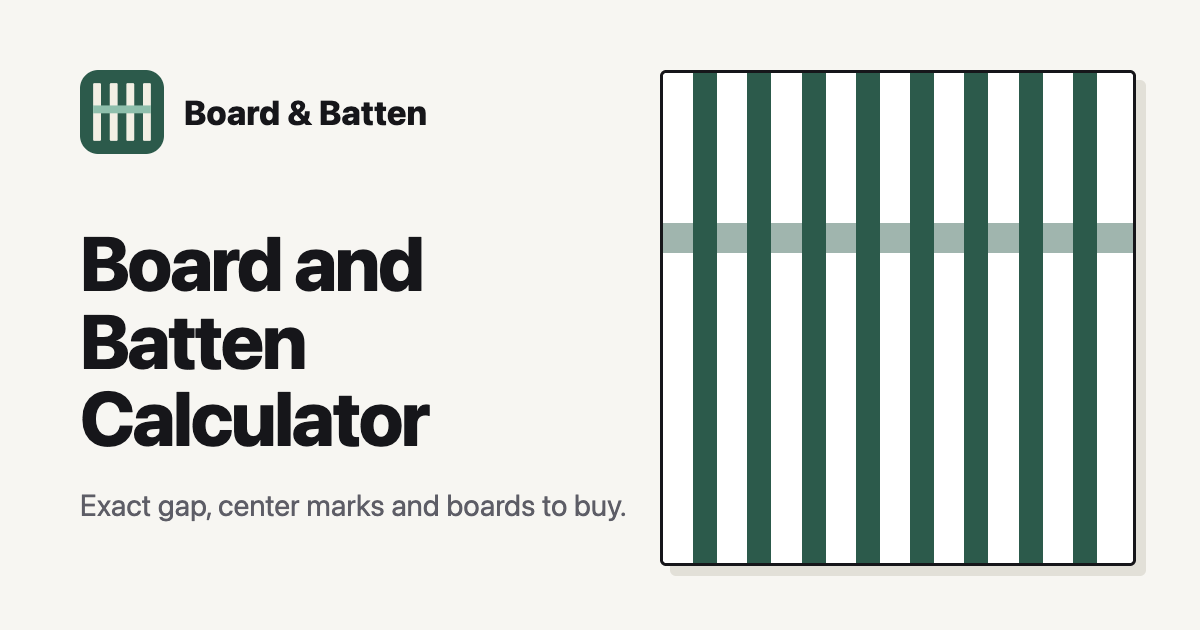
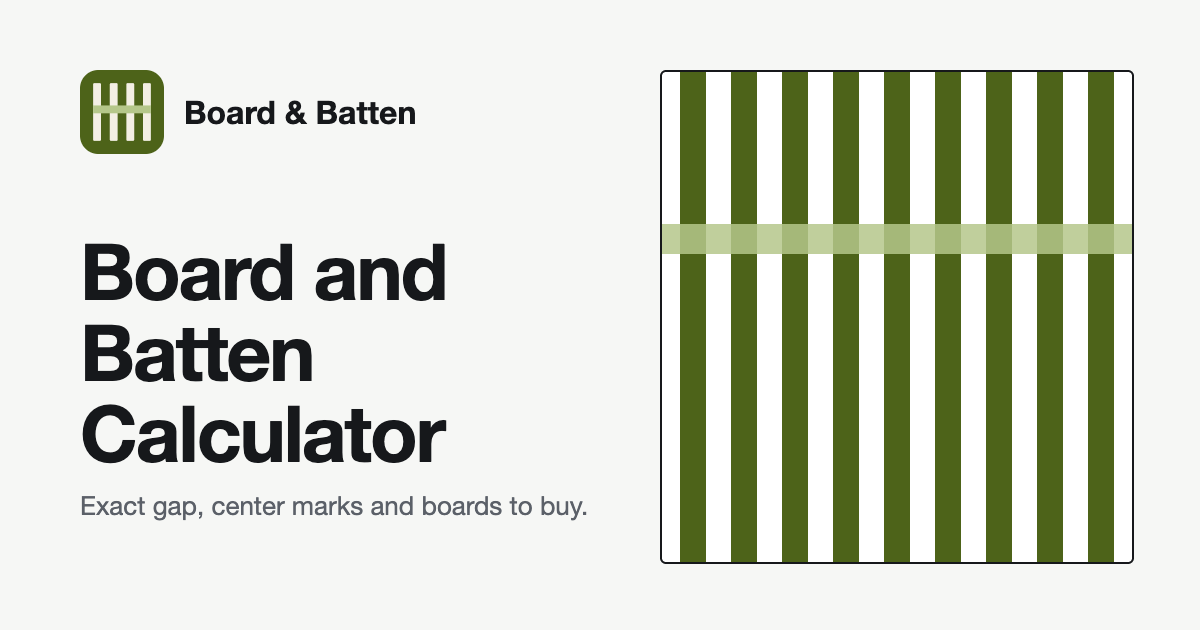
Restyle: refined minimal skin and accent

diff --git a/src/styles/global.css b/src/styles/global.css
@@ -3,6 +3,7 @@
 @custom-variant dark (&:where([data-theme="dark"], [data-theme="dark"] *));
 
 @theme inline {
+  --color-edge: var(--edge);
   --color-brand: var(--brand);
   --color-brand-ink: var(--brand-ink);
   --color-brand-soft: var(--brand-soft);
@@ -17,28 +18,38 @@
 
 :root {
   color-scheme: light;
-  --paper: #f7f6f2;
+  --paper: #f6f7f5;
   --card: #ffffff;
-  --ink: #16161a;
-  --muted: #5d5d66;
-  --line: #e2e0d8;
-  --brand-ink: color-mix(in oklab, var(--brand) 82%, black);
-  --brand-soft: color-mix(in oklab, var(--brand) 10%, var(--paper));
+  --ink: #16181b;
+  --muted: #5b6068;
+  --line: #e3e5e1;
+  --line-strong: #c9ccc6;
+  --edge: #878c93;
+  --card-shadow: 0 1px 2px rgb(16 24 40 / .05), 0 8px 24px -12px rgb(16 24 40 / .10);
+  --brand-ink: color-mix(in oklab, var(--brand) 85%, black);
+  --brand-soft: color-mix(in oklab, var(--brand) 11%, var(--card));
 }
 :root[data-theme="dark"] {
   color-scheme: dark;
-  --paper: #0f1012;
-  --card: #17181b;
-  --ink: #ececea;
-  --muted: #a0a0a8;
-  --line: #2a2b30;
+  --paper: #0f1113;
+  --card: #17191c;
+  --ink: #eceeed;
+  --muted: #a3a8b0;
+  --line: #2a2d31;
+  --line-strong: #3a3e44;
+  --edge: #6b7078;
+  --card-shadow: none;
   --brand-ink: color-mix(in oklab, var(--brand) 55%, white);
-  --brand-soft: color-mix(in oklab, var(--brand) 18%, var(--paper));
+  --brand-soft: color-mix(in oklab, var(--brand) 14%, #121416);
 }
 
 html { background: var(--paper); scroll-padding-top: 5rem; }
 body { background: var(--paper); color: var(--ink); font-family: var(--font-sans); -webkit-font-smoothing: antialiased; text-rendering: optimizeLegibility; }
-:focus-visible { outline: 2px solid var(--brand-ink); outline-offset: 2px; border-radius: 4px; }
+:focus-visible { outline: 3px solid var(--brand-ink); outline-offset: 2px; border-radius: 4px; }
+.ad-slot { margin: 2rem auto 0; max-width: 728px; min-height: 90px; border: 1px dashed var(--line-strong); border-radius: 10px; padding: 1.25rem 0.5rem 0.5rem; position: relative; }
+.ad-slot::before { content: "Advertisement"; position: absolute; top: 0.25rem; left: 0.5rem; font-size: 11px; letter-spacing: .04em; color: var(--muted); }
+@media (max-width: 639px) { .ad-slot { min-height: 100px; max-width: 320px; } }
+@media print { .ad-slot { display: none !important; } }
 @media (prefers-reduced-motion: reduce) { * { transition: none !important; animation: none !important; scroll-behavior: auto !important; } }
 
 /* Long-form text: used by article and legal pages */
@@ -52,22 +63,24 @@ body { background: var(--paper); color: var(--ink); font-family: var(--font-sans
 .prose-site strong { font-weight: 650; }
 
 /* Tool controls */
-.fld { display: block; width: 100%; min-height: 2.75rem; border: 1px solid var(--line); border-radius: 0.75rem; background: var(--paper); color: var(--ink); padding: 0.5rem 0.75rem; font-size: 1rem; font-variant-numeric: tabular-nums; }
+.fld { display: block; width: 100%; min-height: 2.875rem; border: 1px solid var(--edge); border-radius: 0.75rem; background: var(--paper); color: var(--ink); padding: 0.5rem 0.75rem; font-size: 1rem; font-variant-numeric: tabular-nums; }
 .fld:focus { border-color: var(--brand); outline: 2px solid color-mix(in oklab, var(--brand) 35%, transparent); outline-offset: 0; }
 .fld[aria-invalid="true"] { border-color: #b3261e; outline: 2px solid color-mix(in oklab, #b3261e 35%, transparent); }
 .lbl { display: block; font-size: 0.8125rem; font-weight: 600; color: var(--muted); margin-bottom: 0.25rem; letter-spacing: 0.01em; }
-.seg { display: inline-flex; border: 1px solid var(--line); border-radius: 999px; padding: 3px; background: var(--paper); }
+.seg { display: inline-flex; border: 1px solid var(--edge); border-radius: 999px; padding: 3px; background: var(--paper); }
 .seg label { cursor: pointer; }
 .seg span { display: inline-flex; align-items: center; min-height: 2.75rem; padding: 0 0.95rem; border-radius: 999px; font-size: 0.9rem; font-weight: 600; color: var(--muted); }
 .seg input:checked + span { background: var(--brand); color: #fff; }
 .seg input:focus-visible + span { outline: 2px solid var(--brand-ink); outline-offset: 2px; }
-.chip { min-height: 2.75rem; padding: 0 0.85rem; border: 1px solid var(--line); border-radius: 999px; background: var(--card); color: var(--ink); font-size: 0.875rem; font-weight: 600; cursor: pointer; }
+.chip { min-height: 2.75rem; padding: 0 0.85rem; border: 1px solid var(--edge); border-radius: 999px; background: var(--card); color: var(--ink); font-size: 0.875rem; font-weight: 600; cursor: pointer; }
 .chip:hover, .chip[aria-pressed="true"] { border-color: var(--brand); background: var(--brand-soft); color: var(--brand-ink); }
-.btn { display: inline-flex; align-items: center; justify-content: center; gap: 0.5rem; min-height: 2.75rem; padding: 0 1.1rem; border-radius: 0.75rem; border: 1px solid var(--line); background: var(--card); font-weight: 650; font-size: 0.95rem; cursor: pointer; color: var(--ink); }
+:root[data-theme="dark"] .chip[aria-pressed="true"] { border-color: var(--brand-ink); }
+.btn { display: inline-flex; align-items: center; justify-content: center; gap: 0.5rem; min-height: 2.75rem; padding: 0 1.1rem; border-radius: 0.75rem; border: 1px solid var(--edge); background: var(--card); font-weight: 650; font-size: 0.95rem; cursor: pointer; color: var(--ink); }
 .btn:hover { border-color: var(--brand); }
 .btn-primary { background: var(--brand); border-color: var(--brand); color: #fff; }
 .btn-primary:hover { filter: brightness(1.08); }
-.step { width: 2.75rem; min-height: 2.75rem; border: 1px solid var(--line); border-radius: 0.75rem; background: var(--card); font-size: 1.4rem; font-weight: 600; line-height: 1; cursor: pointer; color: var(--ink); }
+:root[data-theme="dark"] .btn-primary { border-color: var(--brand-ink); }
+.step { width: 2.75rem; min-height: 2.75rem; border: 1px solid var(--edge); border-radius: 0.75rem; background: var(--card); font-size: 1.4rem; font-weight: 600; line-height: 1; cursor: pointer; color: var(--ink); }
 .step:hover { border-color: var(--brand); }
 .chk { display: flex; align-items: center; gap: 0.65rem; min-height: 2.75rem; cursor: pointer; font-weight: 550; }
 .chk input { width: 1.25rem; height: 1.25rem; accent-color: var(--brand); flex: none; }
@@ -78,7 +91,7 @@ body { background: var(--paper); color: var(--ink); font-family: var(--font-sans
 
 @media print {
   /* Paper is always white, so use the light colors even when the page is in dark mode. */
-  :root, :root[data-theme="dark"] { color-scheme: light; --paper: #fff; --card: #fff; --ink: #000; --muted: #444; --line: #bbb; --brand-ink: color-mix(in oklab, var(--brand) 82%, black); --brand-soft: #f1f1f1; }
+  :root, :root[data-theme="dark"] { color-scheme: light; --paper: #fff; --card: #fff; --ink: #000; --muted: #444; --line: #bbb; --edge: #888; --brand-ink: color-mix(in oklab, var(--brand) 85%, black); --brand-soft: #f1f1f1; }
   header, footer, .no-print, nav, #sticky { display: none !important; }
   body { background: #fff !important; color: #000 !important; }
   main > section:not(:first-child), main > section h1, main > section > p { display: none !important; }

diff --git a/src/site.config.ts b/src/site.config.ts
@@ -11,7 +11,7 @@ export default {
   email: 'hello@boardandbattenspacingcalculator.com',       // contact email (shown on Contact and Privacy pages)
   ga4: '',                            // GA4 measurement ID, e.g. 'G-XXXXXXXXXX'. Empty = Google Analytics off
   adsense: '',                        // AdSense publisher ID, e.g. 'ca-pub-1234567890123456'. Empty = ads off
-  brand: '#2c5a4b',                   // brand color (hex)
+  brand: '#4d6319',                   // brand color (hex)
   locale: 'en-US',                    // BCP 47 language tag
   ogImage: '/og.png',                        // e.g. '/og.png' (1200x630 file in public/). Empty = no image
   category: 'UtilitiesApplication',   // schema.org applicationCategory
